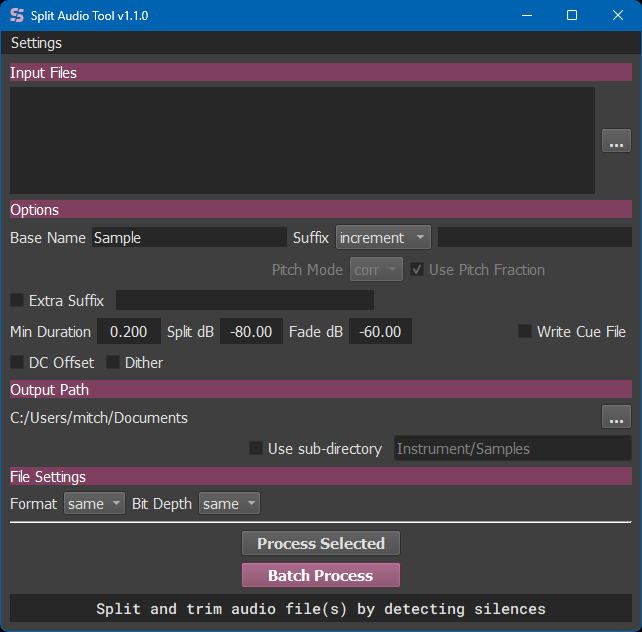
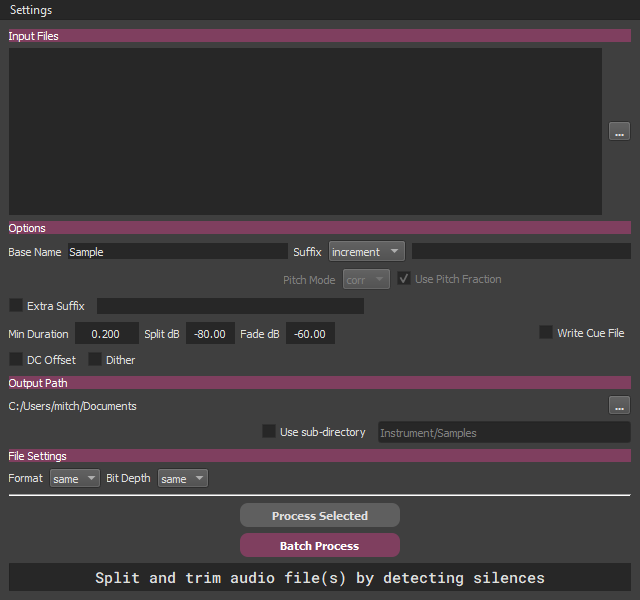
- Updated documentation with new screen captures

diff --git a/screen_caps.py b/screen_caps.py
@@ -1,0 +1,73 @@
+# coding:utf-8
+"""
+    :module: screen_caps.py
+    :description: Quick and dirty batch screen capture for all the tools to update the documentation more easily
+    :author: Michel 'Mitch' Pecqueur
+    :date: 2025.04
+"""
+
+from PyQt5.QtCore import *
+from PyQt5.QtGui import *
+from PyQt5.QtWidgets import *
+import sys
+from pathlib import Path
+from functools import partial
+import importlib
+from dark_fusion_style import apply_dark_theme
+import os
+
+
+class ScreenCap(QMainWindow):
+    def __init__(self):
+        super().__init__()
+        self.setWindowTitle('Capture UI')
+        self.setGeometry(100, 100, 300, 200)
+
+        self.setLocale(QLocale(QLocale.English, QLocale.UnitedStates))
+
+        self.current_dir = Path(__file__).parent
+        self.tools_path = self.current_dir / 'tools'
+
+        self.caps_path = self.current_dir / 'screencaps'
+        if not self.caps_path.exists():
+            os.makedirs(self.caps_path, exist_ok=True)
+
+        if self.tools_path.exists():
+            print(f'tools sub-directory successfully found: {str(self.tools_path)}')
+            sys.path.append(str(self.tools_path))
+
+        self.scripts = ['sample_tools_UI.py', 'smp2ds_UI.py', 'drds_UI.py', 'split_tool_UI.py', 'rename_tool_UI.py',
+                        'loop_tool_UI.py', 'st_tool_UI.py', 'upsample_tool_UI.py']
+
+        self.script_modules = {}
+
+        self.batch_capture()
+
+    def batch_capture(self):
+        for script in self.scripts:
+            module_name = str(Path(script).stem)
+            try:
+                self.script_modules[module_name] = importlib.import_module(module_name)
+                print(f'{module_name}: loaded')
+                mod = self.script_modules[module_name]
+                wid = mod.run(parent=self)
+                filename = module_name.lower()
+                QTimer.singleShot(100, partial(self.capture, wid, filename))
+            except Exception as e:
+                print(f'Failed to import {module_name}: {e}')
+
+    def capture(self, widget, filename):
+        pixmap = widget.grab()
+        filepath = self.caps_path / f'{filename.lower()}.png'
+        filepath = str(filepath.resolve())
+        pixmap.save(filepath, 'PNG')
+
+
+if __name__ == '__main__':
+    app = QApplication(sys.argv)
+    apply_dark_theme(app)
+
+    window = ScreenCap()
+    window.show()
+
+    sys.exit(app.exec_())

diff --git a/sample_tools_UI.py b/sample_tools_UI.py
@@ -47,8 +47,8 @@ def resource_path(relative_path, as_str=True):
 
 
 class SampleToolsUi(QtWidgets.QMainWindow):
-    def __init__(self):
-        super().__init__()
+    def __init__(self, parent=None):
+        super().__init__(parent=parent)
         self.setObjectName('sample_tools_ui')
         self.setLocale(QtCore.QLocale(QtCore.QLocale.English, QtCore.QLocale.UnitedStates))
         self.setWindowTitle(f'Sample Tools v{__version__}')
@@ -178,6 +178,24 @@ class SampleToolsUi(QtWidgets.QMainWindow):
         self.running[name] = tool
         print(f'{name} launched')
 
+    def run(self):
+        # Center on screen not on its parent
+        parent = self.parent()
+        if parent:
+            screen = self.parent().screen()
+        else:
+            screen = self.screen()
+
+        self.show()
+
+        screen_geo = screen.geometry()
+        # Move window up in the screen
+        x = screen_geo.x() + (screen_geo.width() - self.width()) // 2
+        y = screen_geo.y() + int(screen_geo.height() * .1 - self.height() / 2)
+        self.move(x, y)
+
+        return self
+
     def closeEvent(self, event):
         confirm_dlg = QtWidgets.QMessageBox.question(self, 'Confirmation', 'Are you sure you want to quit?',
                                                      Qt.QMessageBox.Yes | Qt.QMessageBox.No, Qt.QMessageBox.No)
@@ -186,6 +204,11 @@ class SampleToolsUi(QtWidgets.QMainWindow):
             event.accept()
         else:
             event.ignore()
+
+
+def run(mw=SampleToolsUi, parent=None):
+    window = mw(parent=parent)
+    return window.run()
 
 
 class IconButton(QtWidgets.QPushButton):
@@ -235,14 +258,10 @@ if __name__ == '__main__':
     screen_geo = current_screen.geometry()
 
     try:
-        window = SampleToolsUi()
-        # Move window up in the screen
-        x = screen_geo.x() + (screen_geo.width() - window.width()) // 2
-        y = screen_geo.y() + int(screen_geo.height() * .1 - window.height() / 2)
-        window.move(x, y)
-        window.show()
-        sys.exit(app.exec_())
+        win = run()
 
     except Exception as e:
         print(e)
         # logger.log_exception(e)
+
+    sys.exit(app.exec_())
